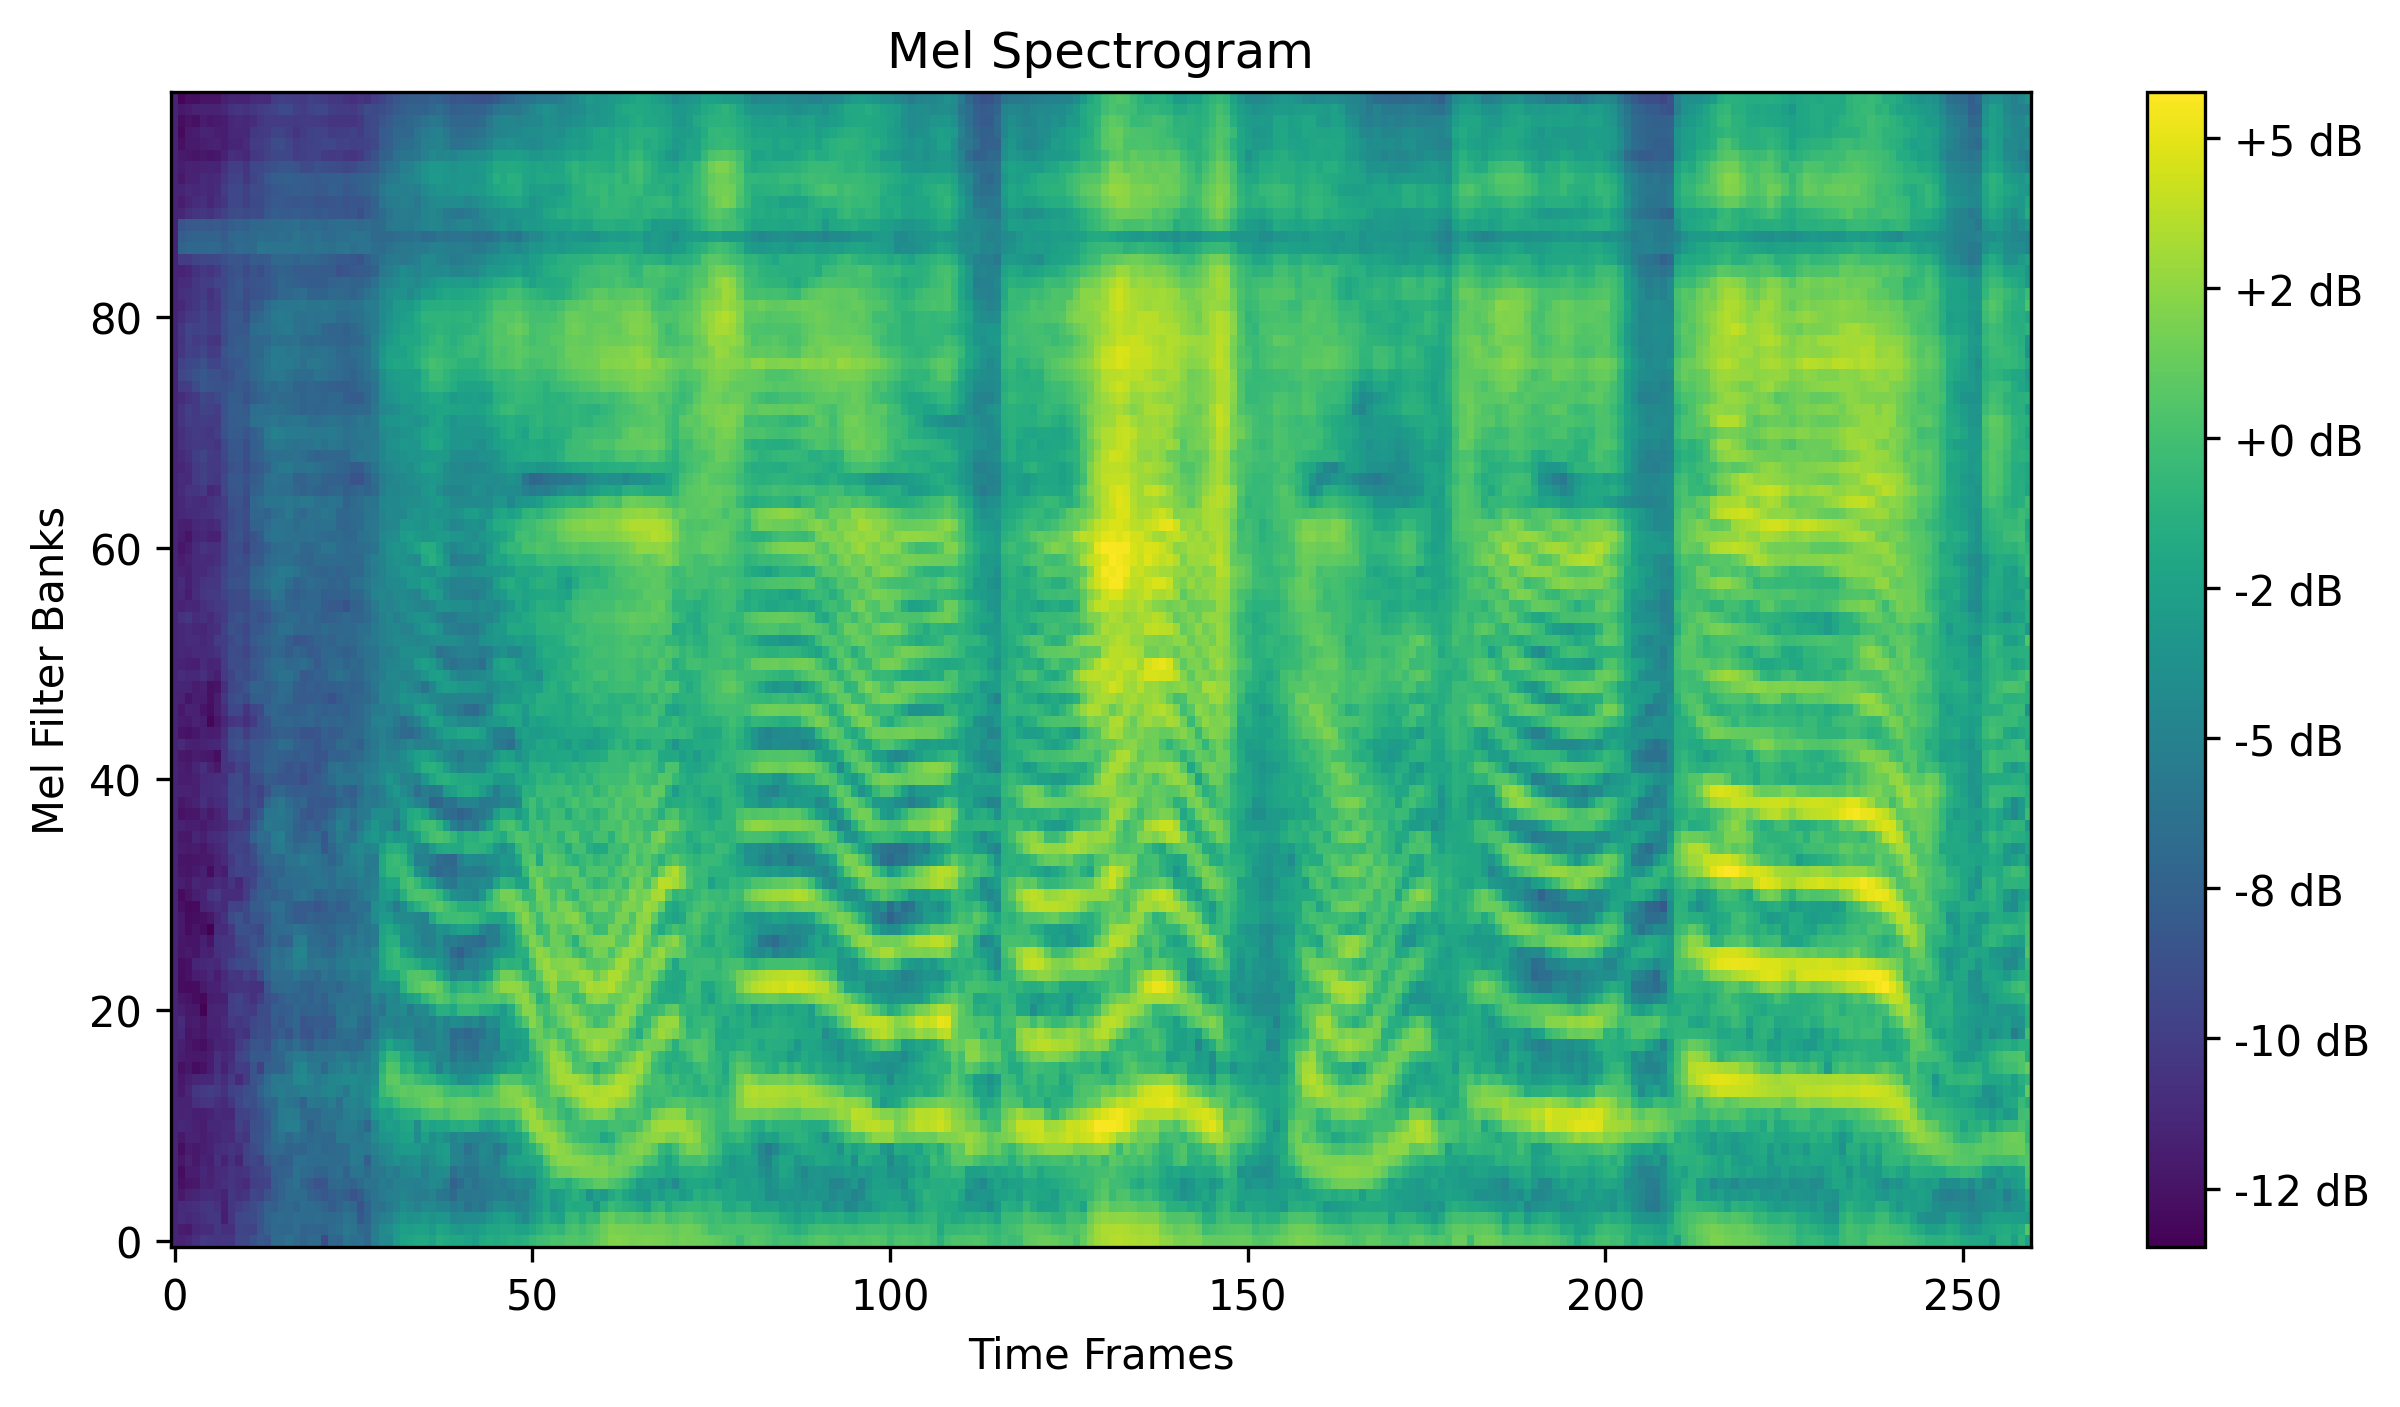
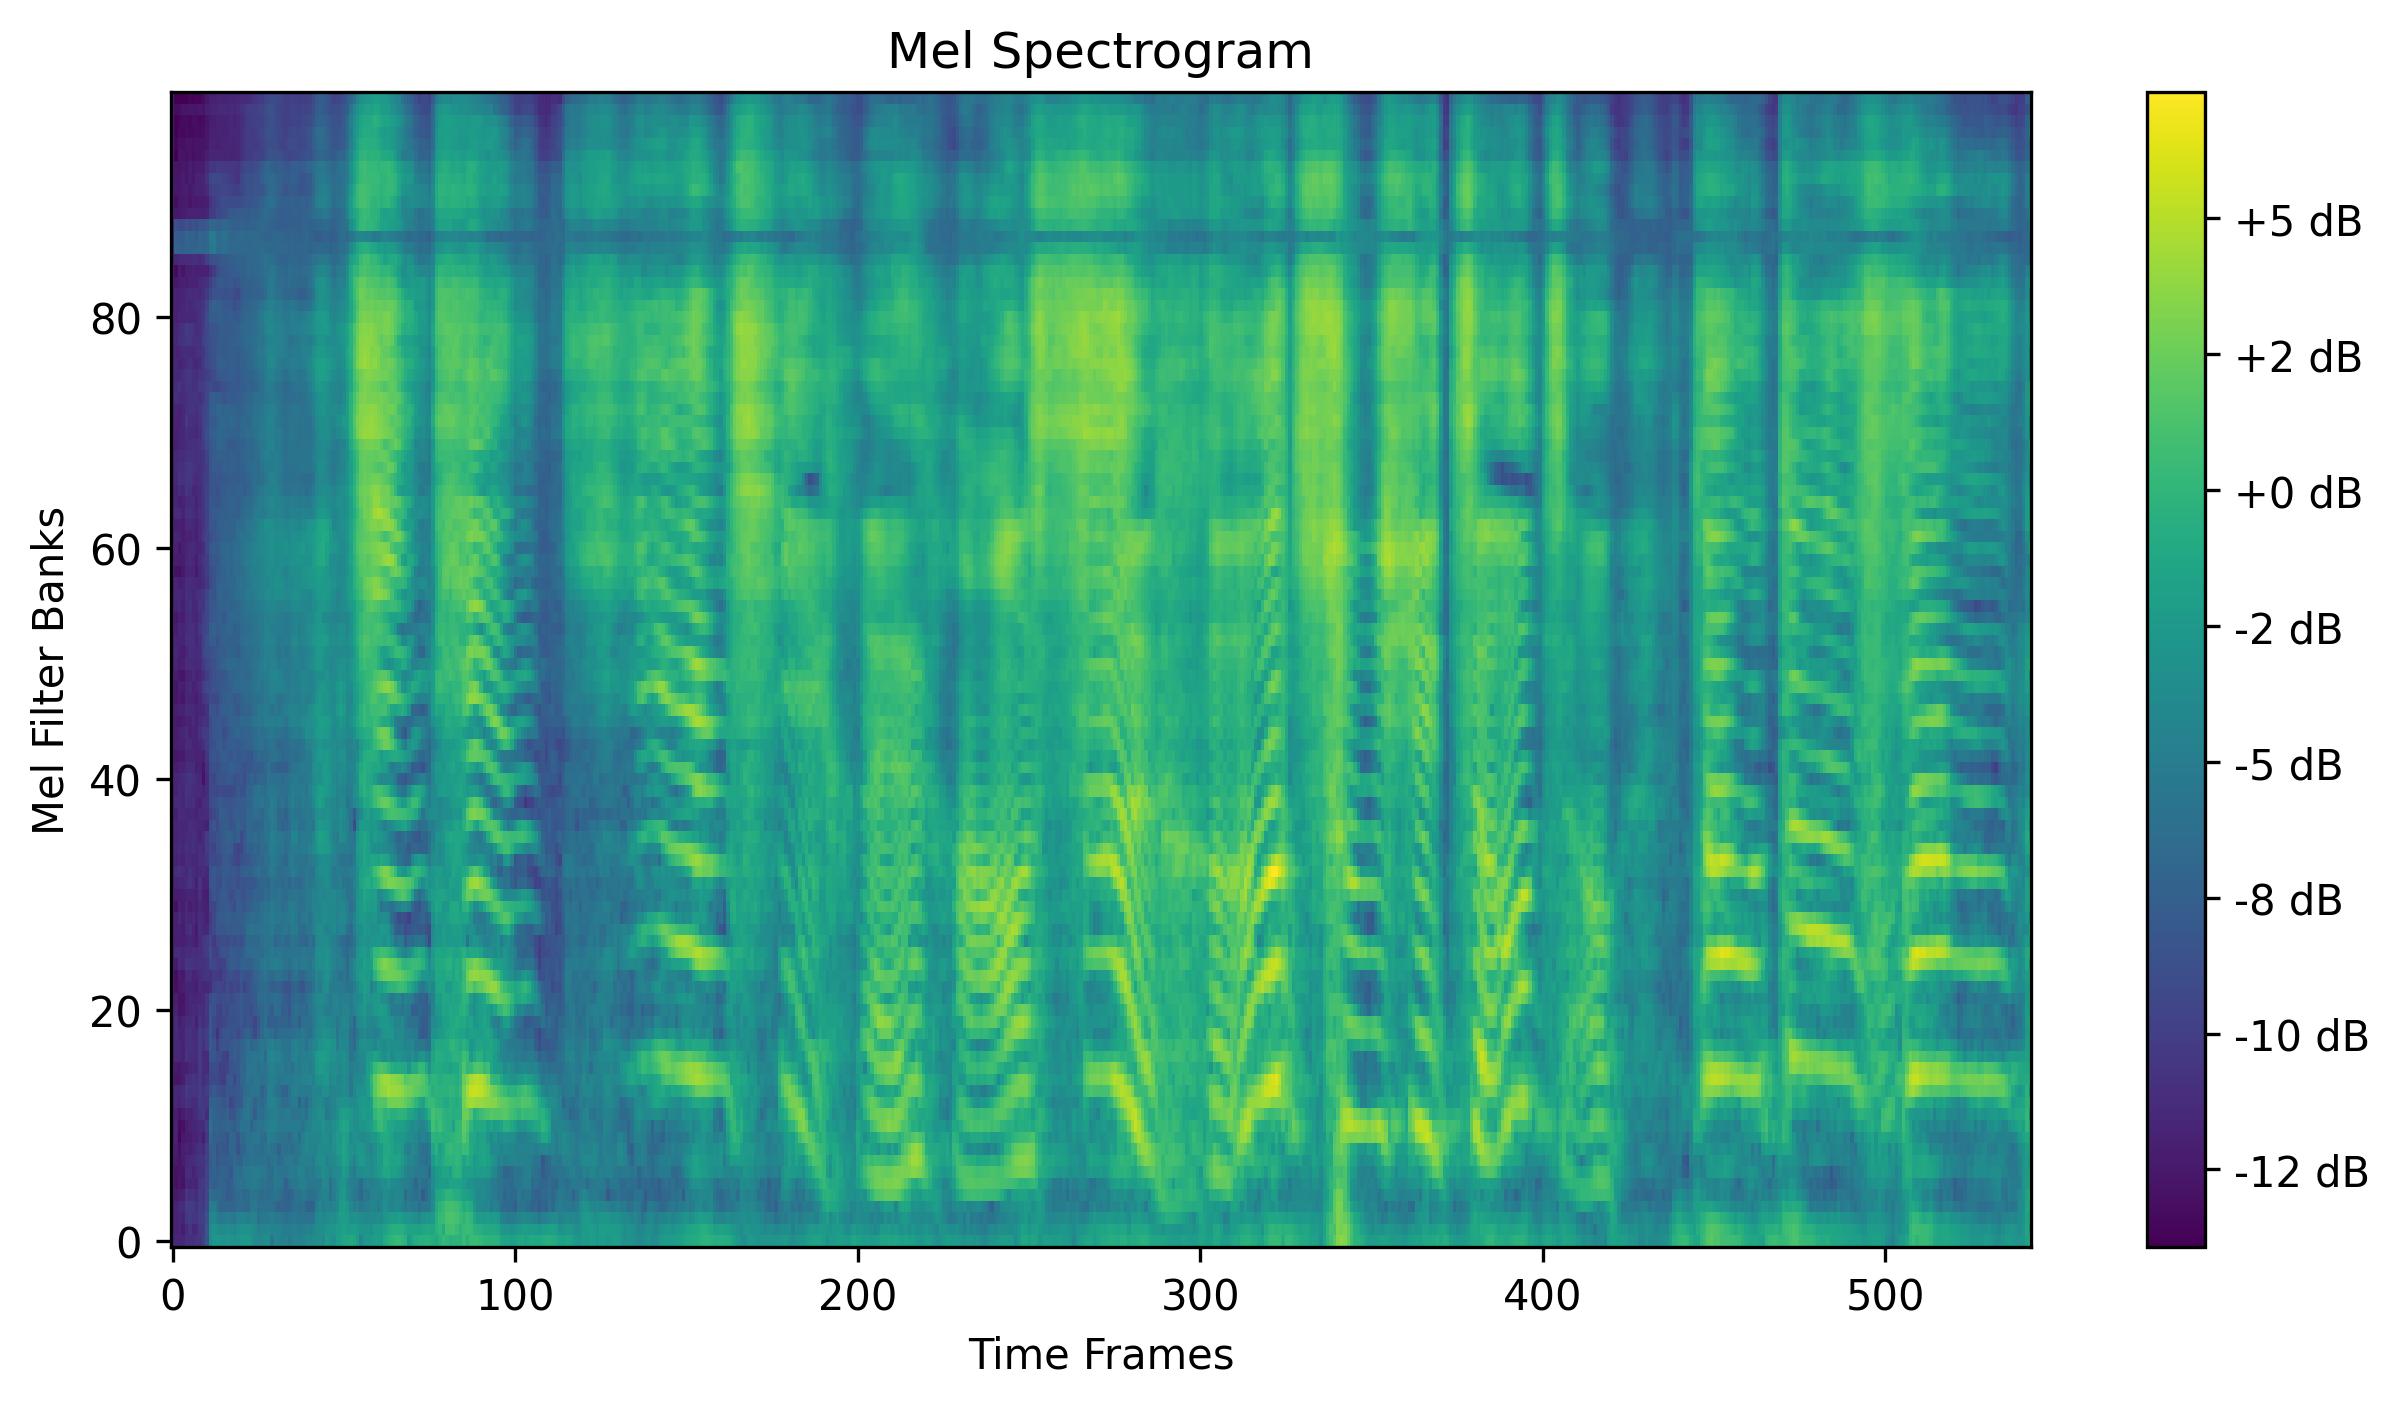
头退化为CFM、用原线性层初始化头、

diff --git a/src/f5_tts/template/dit.py b/src/f5_tts/template/dit.py
@@ -202,12 +202,9 @@ class DiT(nn.Module):
                 for _ in range(depth)
             ]
         )
-        self.long_skip_connection = nn.Linear(dim * 2, dim, bias=False) if long_skip_connection else None
 
         self.norm_out = AdaLayerNorm_Final(dim)  # final modulation
         self.proj_out = nn.Linear(dim, mel_dim)
-
-        self.checkpoint_activations = checkpoint_activations
 
         self.initialize_weights()
 
@@ -222,14 +219,6 @@ class DiT(nn.Module):
         nn.init.constant_(self.norm_out.linear.bias, 0)
         nn.init.constant_(self.proj_out.weight, 0)
         nn.init.constant_(self.proj_out.bias, 0)
-
-    def ckpt_wrapper(self, module):
-        # https://github.com/chuanyangjin/fast-DiT/blob/main/models.py
-        def ckpt_forward(*inputs):
-            outputs = module(*inputs)
-            return outputs
-
-        return ckpt_forward
 
     def get_input_embed(
         self,
@@ -256,17 +245,6 @@ class DiT(nn.Module):
                     )
                     text_embed_list.append(text_embed_i[0])
                 text_embed = pad_sequence(text_embed_list, batch_first=True, padding_value=0)
-            if cache:
-                if drop_text:
-                    self.text_uncond = text_embed
-                else:
-                    self.text_cond = text_embed
-
-        if cache:
-            if drop_text:
-                text_embed = self.text_uncond
-            else:
-                text_embed = self.text_cond
 
         x = self.input_embed(x, cond, text_embed, drop_audio_cond=drop_audio_cond, audio_mask=audio_mask)
 

diff --git a/src/f5_tts/model/dtm.py b/src/f5_tts/model/dtm.py
@@ -110,6 +110,10 @@ class DTM(nn.Module):
         # Vocab map for tokenization
         self.vocab_char_map = vocab_char_map
         print(f'my ode {ode_solver_steps}')
+        
+        with torch.no_grad():
+            self.head.output_proj.weight.copy_(self.backbone.proj_out.weight)
+            self.head.output_proj.bias.copy_(self.backbone.proj_out.bias)
     
     @property
     def device(self):
@@ -285,11 +289,11 @@ class DTM(nn.Module):
         Y = X_T - X_0
         
         # Forward through trainable head (now accepts flattened input)
-        # v_pred = self.head(h_t)
-        v_pred = self.backbone.proj_out(h_t)
-        dummy_loss = 0.0 * sum(p.sum() for p in self.head.parameters())
+        v_pred = self.head(h_t)
+        # v_pred = self.backbone.proj_out(h_t)
+        # dummy_loss = 0.0 * sum(p.sum() for p in self.head.parameters())
         # Compute MSE loss with mask (like CFM, only on masked region)
-        loss = F.mse_loss(v_pred, Y, reduction='none') + dummy_loss  # [batch*seq_len, mel_dim]
+        loss = F.mse_loss(v_pred, Y, reduction='none')# [batch*seq_len, mel_dim]
         
         # Apply rand_span_mask to only compute loss on the region to be predicted
         loss = loss[rand_span_mask]
@@ -407,6 +411,7 @@ class DTM(nn.Module):
                 cfg_infer=True
             )
             h_t_cfg = self.head(h_t_cfg)
+            # h_t_cfg = self.backbone.proj_out(h_t_cfg)
             v_cond, v_uncond = torch.chunk(h_t_cfg, 2, dim=0)
             
             # 3. CFG 公式: v = uncond + cfg * (cond - uncond)

diff --git a/src/f5_tts/scripts/mel_visualize.py b/src/f5_tts/scripts/mel_visualize.py
@@ -1,0 +1,37 @@
+import librosa
+import librosa.display
+import matplotlib.pyplot as plt
+import numpy as np
+
+# 替换为您的实际文件路径
+# file_path = '/inspire/hdd/project/video-generation/chenxie-25019/hyr/F5-TTS/ckpts/DTM_F5TTS_Base_vocos_pinyin_WenetSpeech4TTS_Premium/samples/update_40000_gen.wav'
+
+file_path = '/inspire/hdd/project/video-generation/chenxie-25019/hyr/F5-TTS/tests/infer_cli_basic.wav'
+
+try:
+    # 1. 加载音频文件
+    # sr=None表示使用文件的原始采样率
+    y, sr = librosa.load(file_path, sr=None) 
+
+    # 2. 计算梅尔频谱图 (默认n_fft=2048, hop_length=512)
+    # n_mels通常取80或128
+    D = librosa.feature.melspectrogram(y=y, sr=sr, n_mels=80, hop_length=32)
+
+    # 3. 转换为分贝 (dB)
+    D_db = librosa.power_to_db(D, ref=np.max)
+
+    # 4. 绘制图形
+    plt.figure(figsize=(10, 4))
+    # specshow函数用于显示频谱图，y_axis='mel'表示纵轴是梅尔刻度
+    librosa.display.specshow(D_db, 
+                             sr=sr, 
+                             x_axis='time', 
+                             y_axis='mel', 
+                             cmap='magma') # 可以选择不同的颜色映射，如'viridis', 'magma', 'jet'等
+    plt.colorbar(format='%+2.0f dB')
+    plt.title('Mel Spectrogram')
+    plt.tight_layout()
+    plt.savefig('2.png')
+
+except Exception as e:
+    print(f"处理文件时发生错误: {e}")

diff --git a/src/f5_tts/model/dtm_head.py b/src/f5_tts/model/dtm_head.py
@@ -117,8 +117,8 @@ class DTMHead(nn.Module):
         self.output_proj = nn.Linear(backbone_dim, mel_dim)
         
         # Initialize output projection to zero (for stability)
-        nn.init.constant_(self.output_proj.weight, 0)
-        nn.init.constant_(self.output_proj.bias, 0)
+        # nn.init.constant_(self.output_proj.weight, 0)
+        # nn.init.constant_(self.output_proj.bias, 0)
     
     def forward(
         self,
